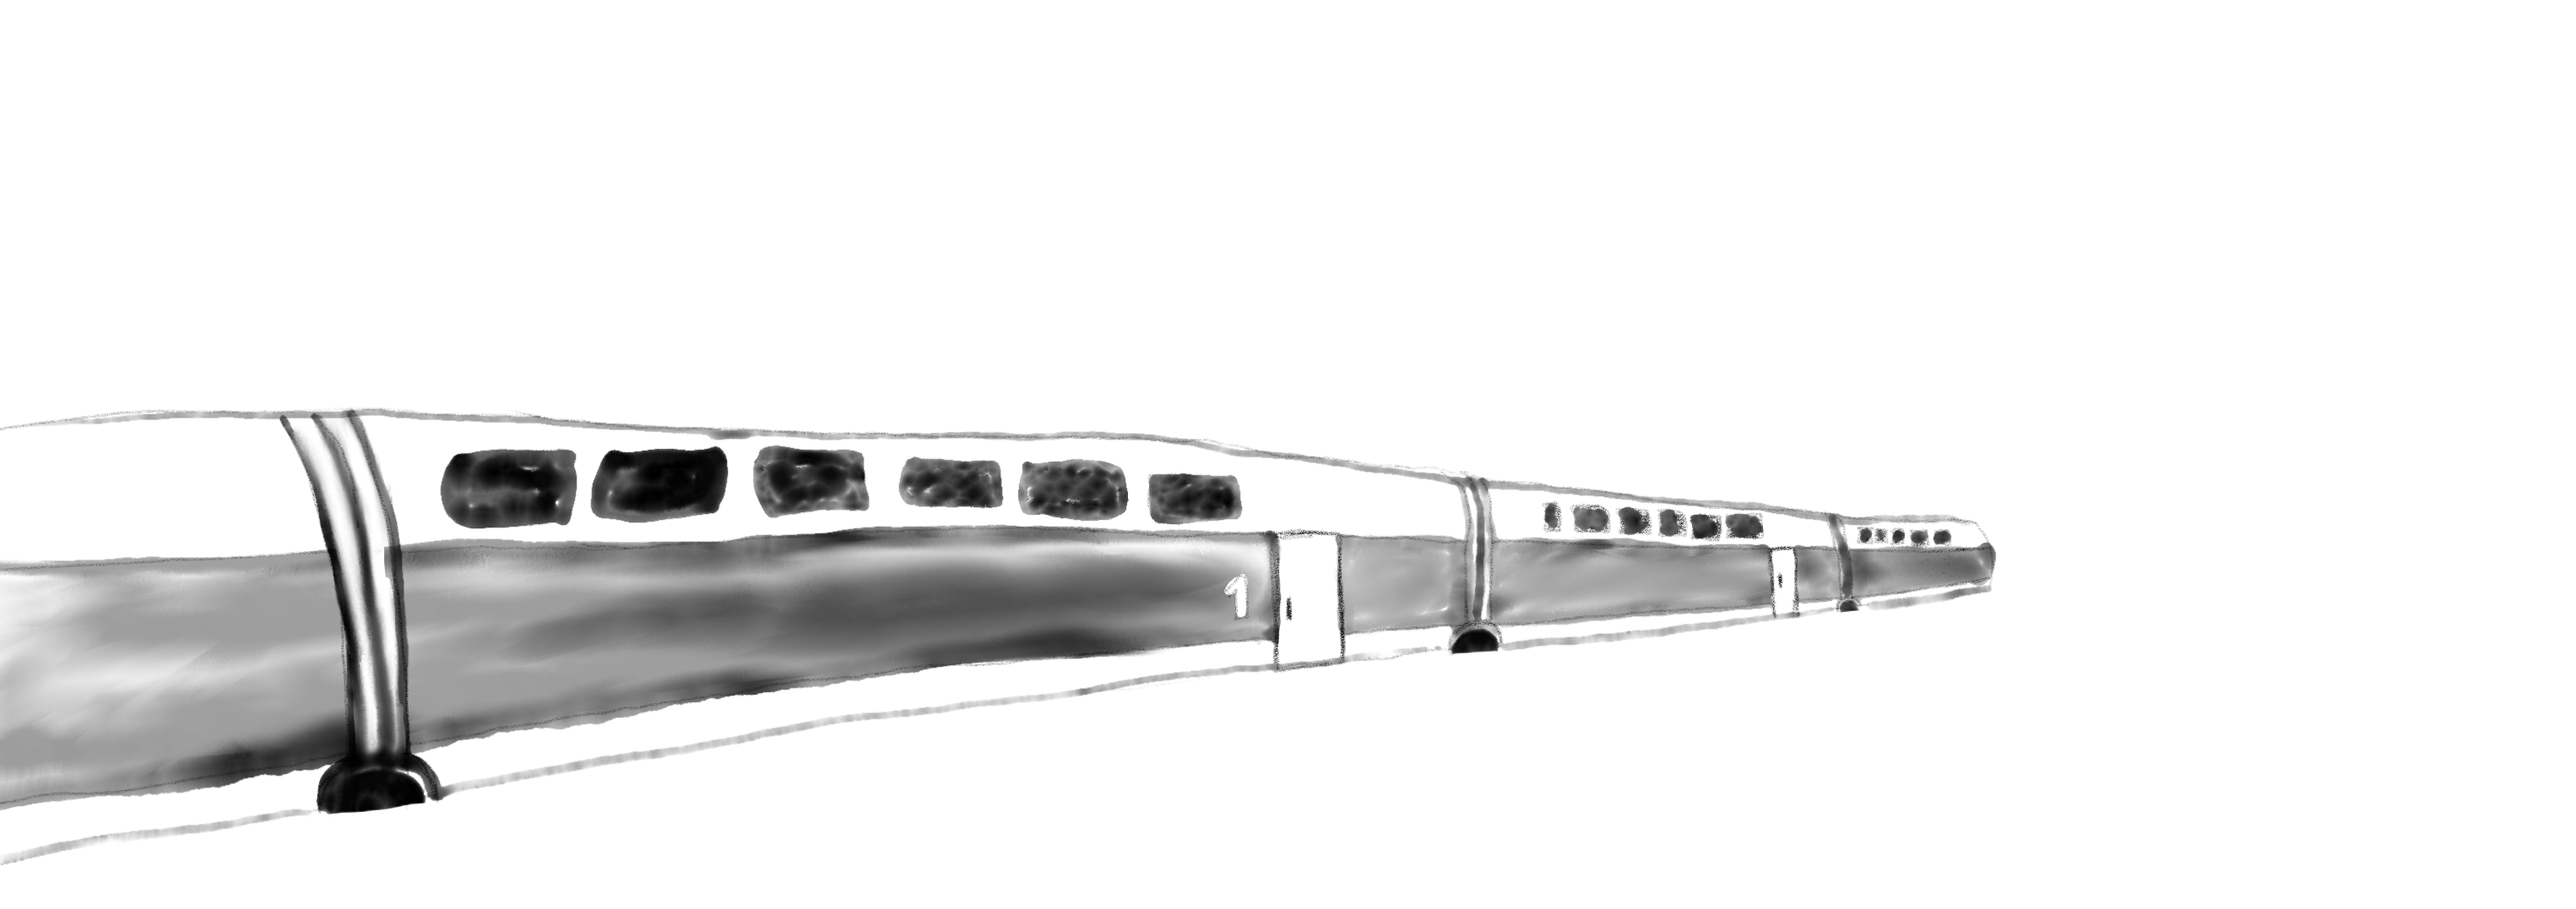
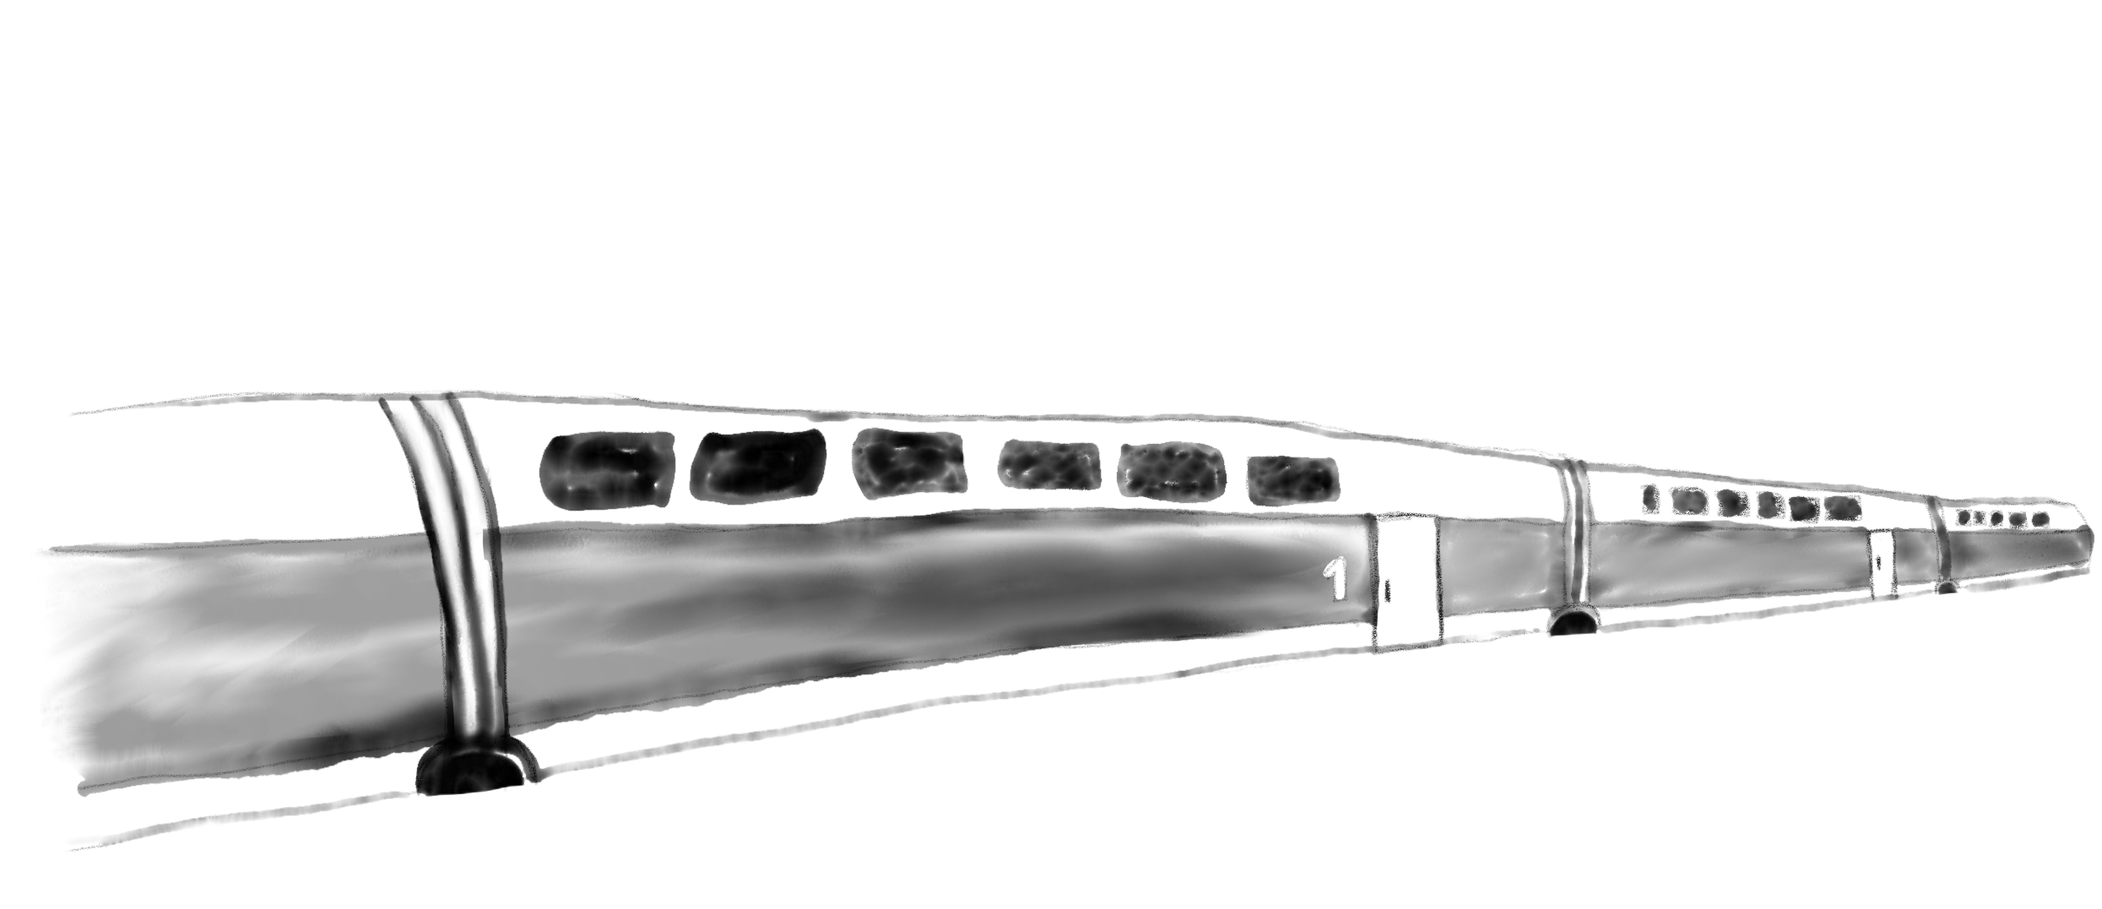
bahnhof update 3 (funktionierende version)

Changed region(s): [[0.0, 0.429, 1.0, 0.9192], [0.0, 0.9192, 0.0618, 0.9499]]

diff --git a/Assets/js/Szene/Bahnhof.js b/Assets/js/Szene/Bahnhof.js
@@ -6,16 +6,21 @@ window.addEventListener('scroll',function(){
     
     let value = window.scrollY;
 
-    if(value<800){
-    ZUG_VORNE.style.left = 15  - value * 0.05  + '%';
-    //ZUG_VORNE.style.top = 25 + value * 0.00297 + '%';
-    ZUG_VORNE.style.width = 70 + value * 0.037 + '%';
-
-    ZUG_HINTEN.style.left = 5  + value * 0.05  + '%';
-    //ZUG_VORNE.style.top = 25 + value * 0.00297 + '%';
-    //ZUG_HINTEN.style.width = 70 + value * 0.037 + '%';
-
-    //DIALLO.style.left = 600 + -value * 0.3 + 'px';
+    if(value<600){
+    ZUG_VORNE.style.left = 64  - value * 0.05  + '%';
+    ZUG_VORNE.style.top = 40 - value * 0.027 + '%';
+    ZUG_VORNE.style.width = 15 + value * 0.037 + '%';
     }
+    if(value<500){
+    ZUG_HINTEN.style.left = -10+ value * 0.05  + '%';
+    ZUG_HINTEN.style.top = 21 + value * 0.015 + '%';
+    ZUG_HINTEN.style.width = 70 + -value * 0.037 + '%';
+
+    
+    }
+
+    DIALLO.style.width = 70 + value * 0.01 + '%';
+    DIALLO.style.top = 25 + -value * 0.007 + '%';
+    DIALLO.style.left = 15 + -value * 0.007 + '%';
     console.log(value)
 });

diff --git a/Assets/scss/Szene/Bahnhof.scss b/Assets/scss/Szene/Bahnhof.scss
@@ -32,8 +32,8 @@ html {
 
 .zugHinten {
     img {
-        top: 25%;
-        left: 5%;
+        top: 21%;
+        left: -10%;
         width: 70%;
         position: fixed;
         z-index: 1;
@@ -44,9 +44,9 @@ html {
 
 .zugVorne {
     img{
-        top: 25%;
-        left: 15%;
-        width: 70%;
+        top: 40%;
+        left: 64%;
+        width: 15%;
         position: fixed;
         z-index: 2;
         
@@ -59,6 +59,7 @@ html {
         left: 15%;
         width: 70%;
         position: fixed;
+        z-index: 3;
         
     }
 }

diff --git a/Assets/css/Szene/Bahnhof.css b/Assets/css/Szene/Bahnhof.css
@@ -15,17 +15,17 @@ html {
 }
 
 .zugHinten img {
-  top: 25%;
-  left: 5%;
+  top: 21%;
+  left: -10%;
   width: 70%;
   position: fixed;
   z-index: 1;
 }
 
 .zugVorne img {
-  top: 25%;
-  left: 15%;
-  width: 70%;
+  top: 40%;
+  left: 64%;
+  width: 15%;
   position: fixed;
   z-index: 2;
 }
@@ -35,4 +35,5 @@ html {
   left: 15%;
   width: 70%;
   position: fixed;
+  z-index: 3;
 }
